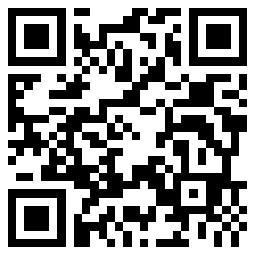
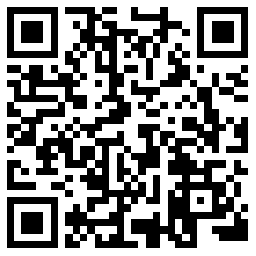
更换正确的二维码

diff --git a/vue.config.js b/vue.config.js
@@ -1,6 +1,9 @@
 const path = require('path')
 
 module.exports = {
+  publicPath: process.env.NODE_ENV === 'production'
+    ? '/green-grape-1-website/'
+    : '/',
   lintOnSave: false,
   chainWebpack: config => {
     const dir = path.resolve(__dirname, 'src/assets/icons')
